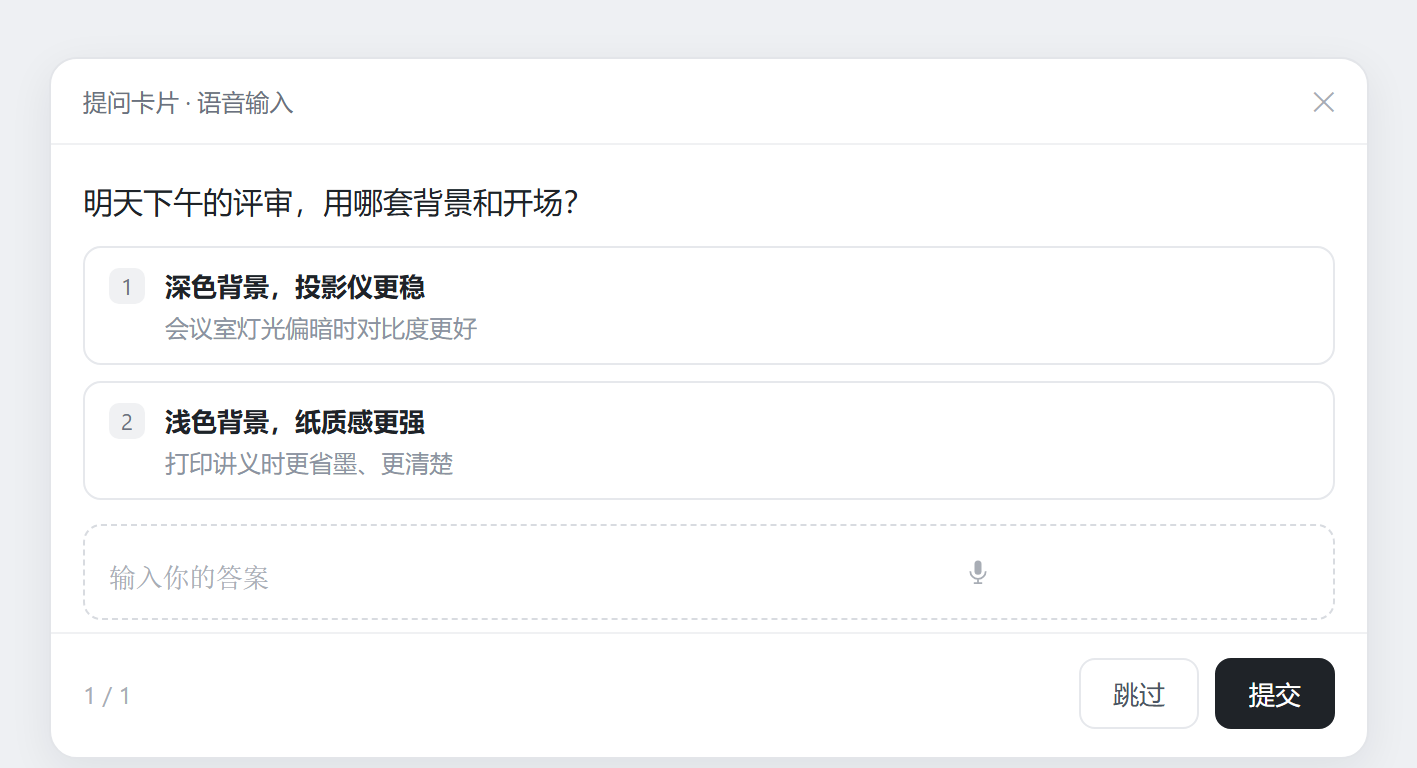
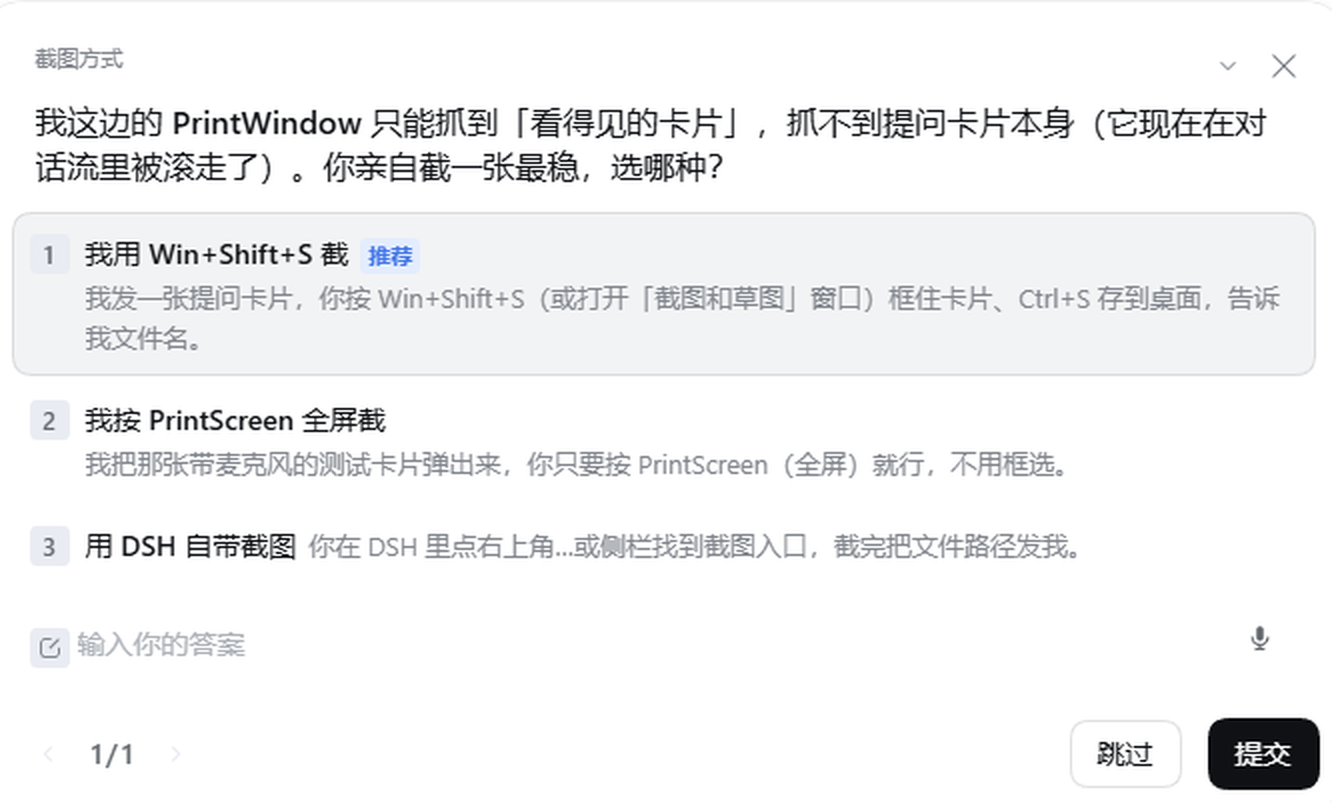
docs: use a real screenshot of the question card

diff --git a/README.en.md b/README.en.md
@@ -6,9 +6,9 @@ The built-in dictation in DSH only covers the chat composer. This plugin brings 
 
 ## What it looks like
 
-![A whole question card: title, question, options, the free-text answer field with the mic on its right, and the skip/submit footer](docs/card.png)
+![A whole question card, real screenshot: title, question, options, the free-text answer field with the mic on its right, and the skip/submit footer](docs/card-real.png)
 
-That is the full card. The plugin only adds a mic to the free-text answer row — the options, the page counter, skip/submit and the close button stay exactly as they are.
+That is the full card (real screenshot). The plugin only adds a mic to the right of the free-text answer row — the question, options, page counter, skip/submit and the close button stay exactly as they are.
 
 ![Four states: idle / recording / transcribing / text inserted](docs/states.png)
 

diff --git a/README.md b/README.md
@@ -8,9 +8,9 @@
 
 ## 效果
 
-![一张完整的提问卡片：标题、问题、选项、右侧带麦克风的自定义答案框、底部的跳过与提交](docs/card.png)
+![一张完整的提问卡片：标题、问题、三个选项、带麦克风的自定义答案框、底部的跳过与提交](docs/card-real.png)
 
-整张卡片长这样——插件只往「自定义答案」那一行加了一个麦克风，选项、翻页、跳过/提交、右上角关闭都保持原样。
+整张卡片长这样（真实截图）——插件只往「自定义答案」那一行右侧加了一个麦克风，问题、选项、翻页、跳过/提交、右上角关闭都保持原样。
 
 ![四个状态：待命 / 录音中 / 识别中 / 出字](docs/states.png)
 
